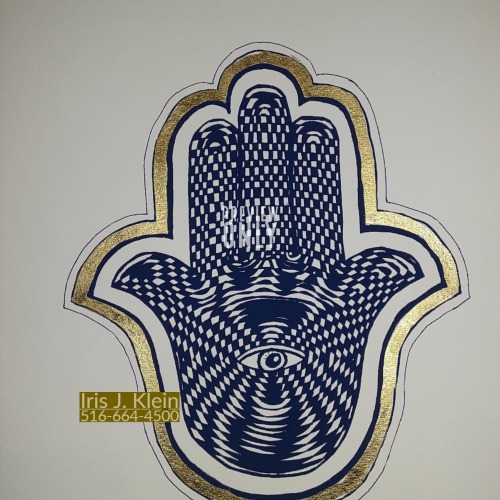
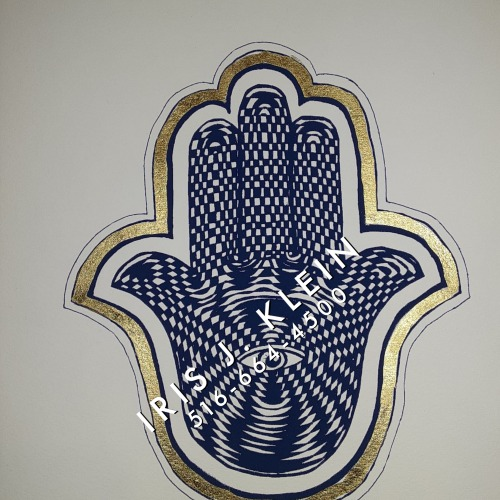
rewatermarked everything and new bio photo

diff --git a/index.html b/index.html
@@ -48,12 +48,12 @@ Iris stored hundreds of her "doodles" in a file cabinet for years until she was 
 		</p>
 	</section>
 	<section class="sidebar">
-		<img src="img/njkPortraitForBio.gif" alt="headshot">
+		<img src="img\njkPortraitForBio.jpg" alt="headshot">
 	</section>
 	<div class="clearfix">
 	</div>
 	<a name="gallery-j">
-		<h2>My Judaic Gallery</h2>
+		<h2>My Gallery</h2>
 		<section class="one-third-port">
 			<a href="http://127.0.0.1:5500/img/img001watermark.jpg"><img src="img/img001watermark.jpg" alt="">  </a>
 		</section>
